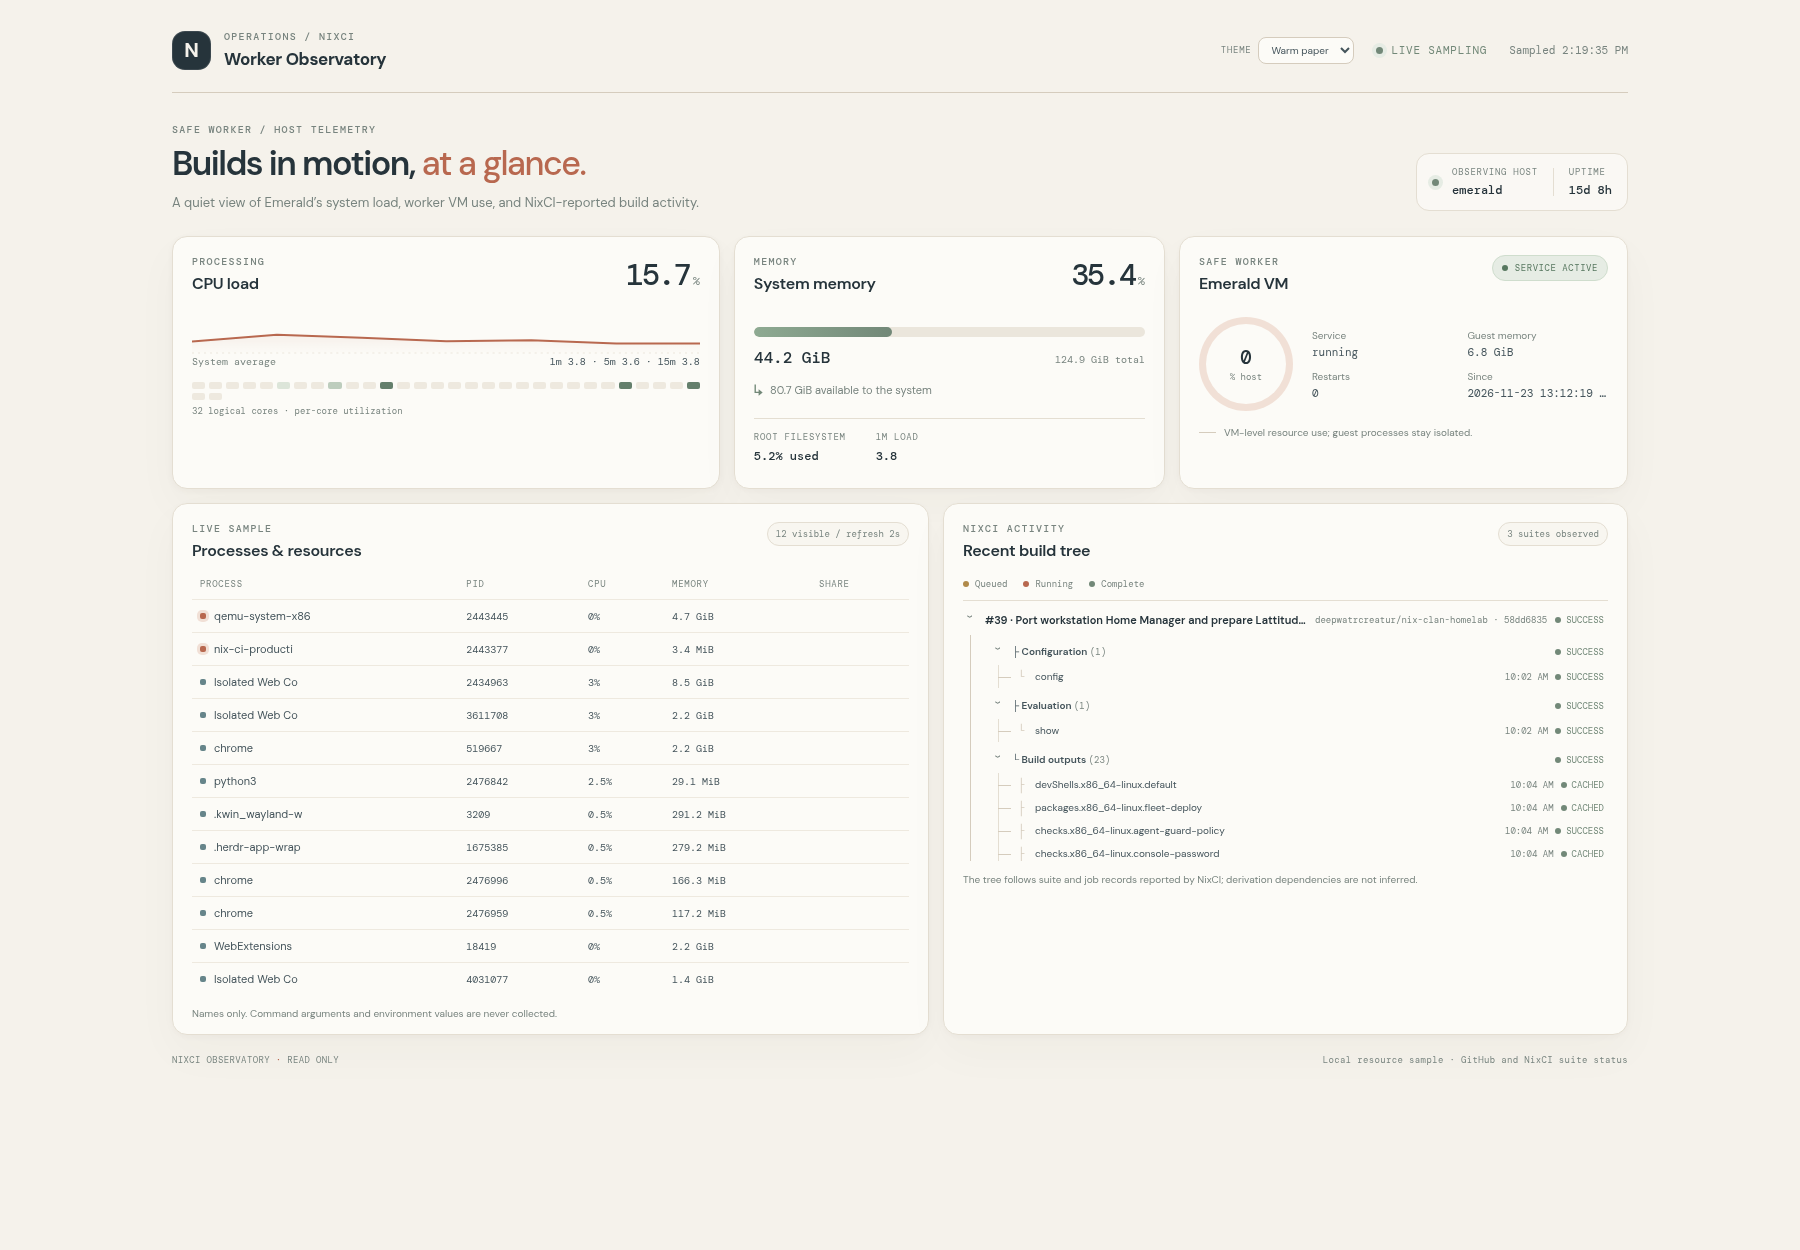
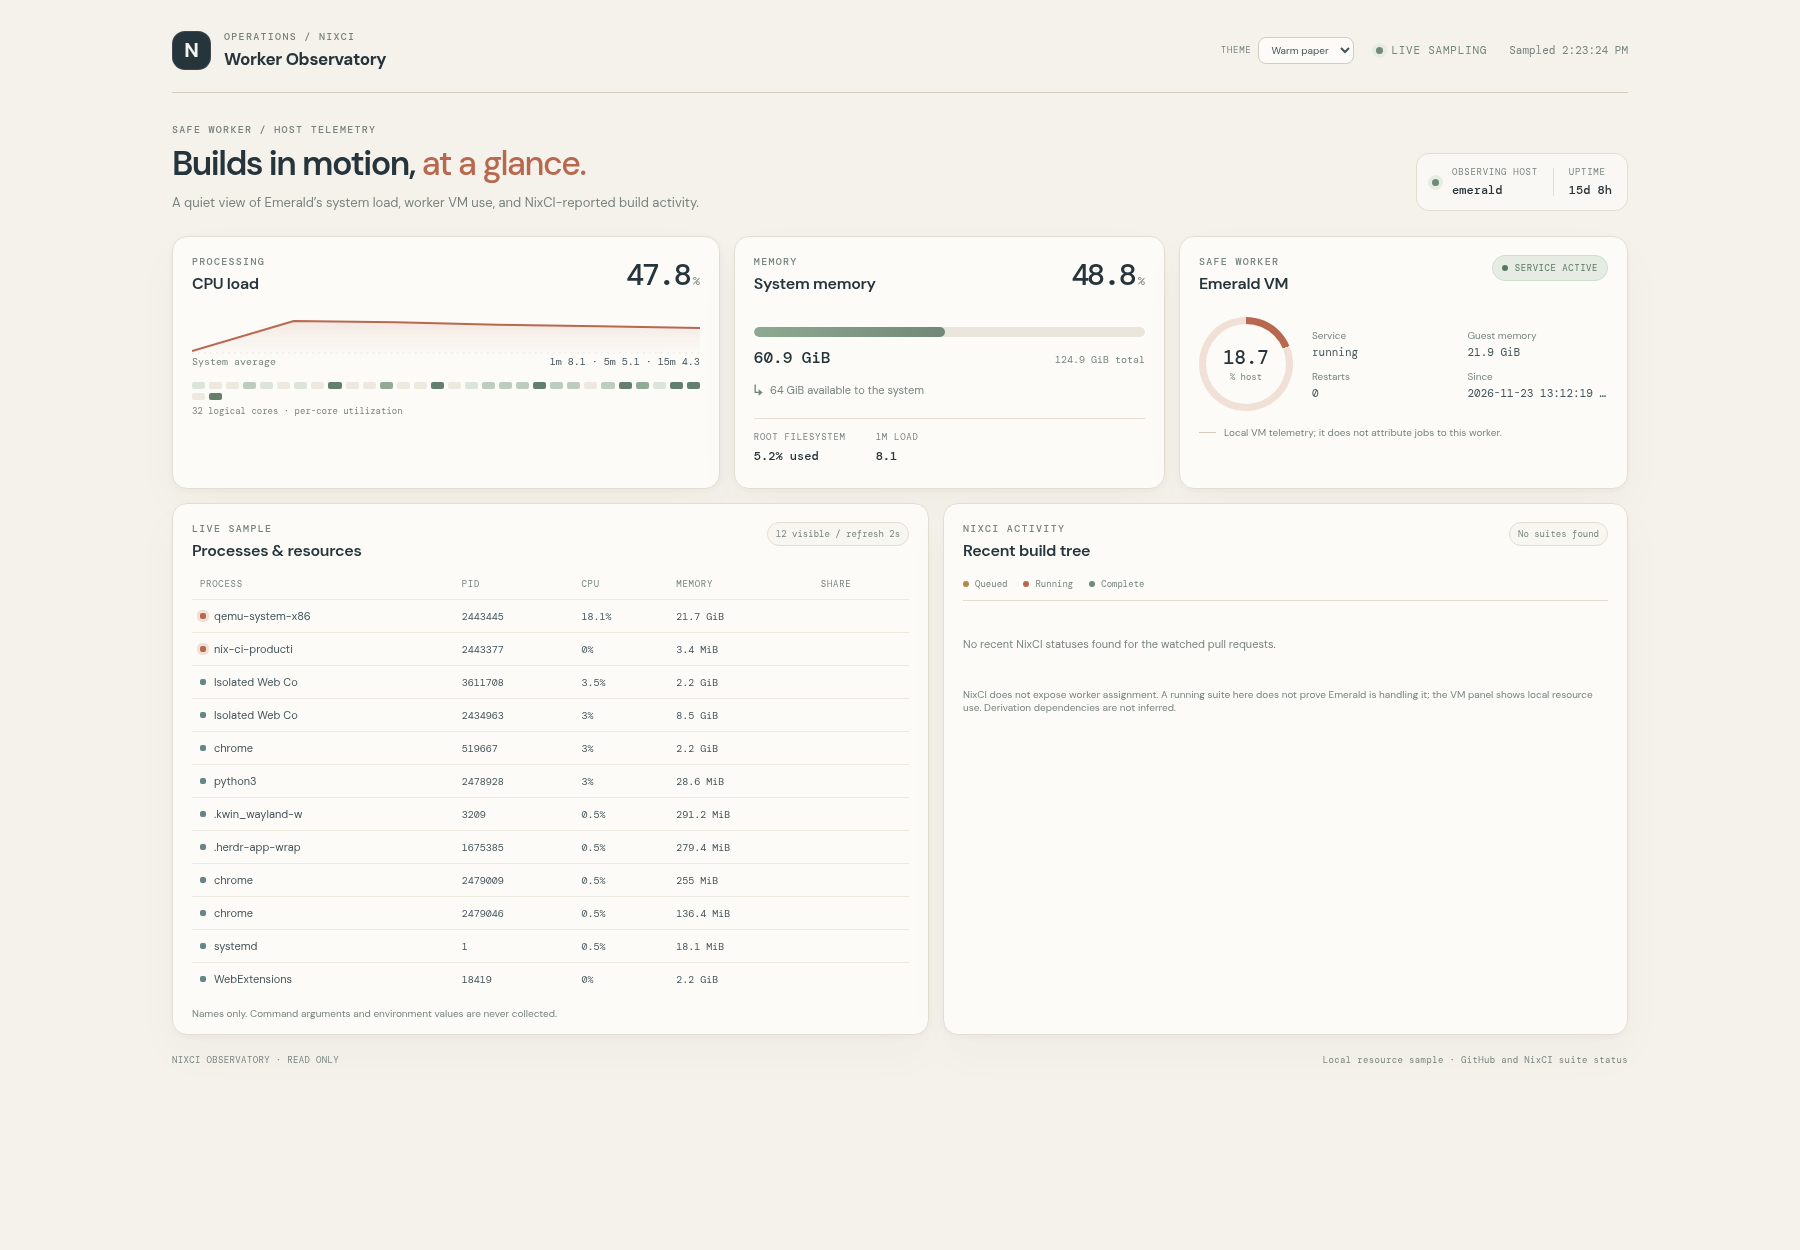
docs: clarify worker job attribution limits

diff --git a/web/index.html b/web/index.html
@@ -78,7 +78,7 @@
               <div><span>Since</span><strong id="worker-since">—</strong></div>
             </div>
           </div>
-          <div class="worker-caption"><span class="caption-rule"></span><span>VM-level resource use; guest processes stay isolated.</span></div>
+          <div class="worker-caption"><span class="caption-rule"></span><span>Local VM telemetry; it does not attribute jobs to this worker.</span></div>
         </article>
       </section>
 
@@ -104,7 +104,7 @@
           </div>
           <div class="tree-legend"><span class="legend-item"><i class="legend-dot queued"></i>Queued</span><span class="legend-item"><i class="legend-dot running"></i>Running</span><span class="legend-item"><i class="legend-dot success"></i>Complete</span></div>
           <div class="build-tree" id="build-tree"><p class="empty-state">Looking for recent NixCI suites…</p></div>
-          <p class="table-note">The tree follows suite and job records reported by NixCI; derivation dependencies are not inferred.</p>
+          <p class="table-note">NixCI does not expose worker assignment. A running suite here does not prove Emerald is handling it; the VM panel shows local resource use. Derivation dependencies are not inferred.</p>
         </article>
       </section>
 

diff --git a/README.md b/README.md
@@ -51,6 +51,17 @@ command-line arguments. Suite status and job names come from GitHub commit
 statuses and NixCI's public suite pages. The tree represents NixCI-reported
 jobs; it does not infer derivation dependencies.
 
+## Worker attribution
+
+The worker panel measures Emerald's safe worker VM CPU and memory use. This
+shows the load of that VM on Emerald, but resource use alone cannot prove a
+NixCI build is running. The public suite records do not identify which worker
+handled a job, so this dashboard does not label a suite as an Emerald build.
+NixCI's self-hosting module documents per-slot `job.json` records inside the
+guest VM; this deployment does not currently expose those records to the host.
+Per-job attribution would need an approved local feed from the guest or a
+worker identity in NixCI's public status/API.
+
 ## Screenshots
 
 Screenshots live under [`docs/screenshots/`](docs/screenshots/). They show the
